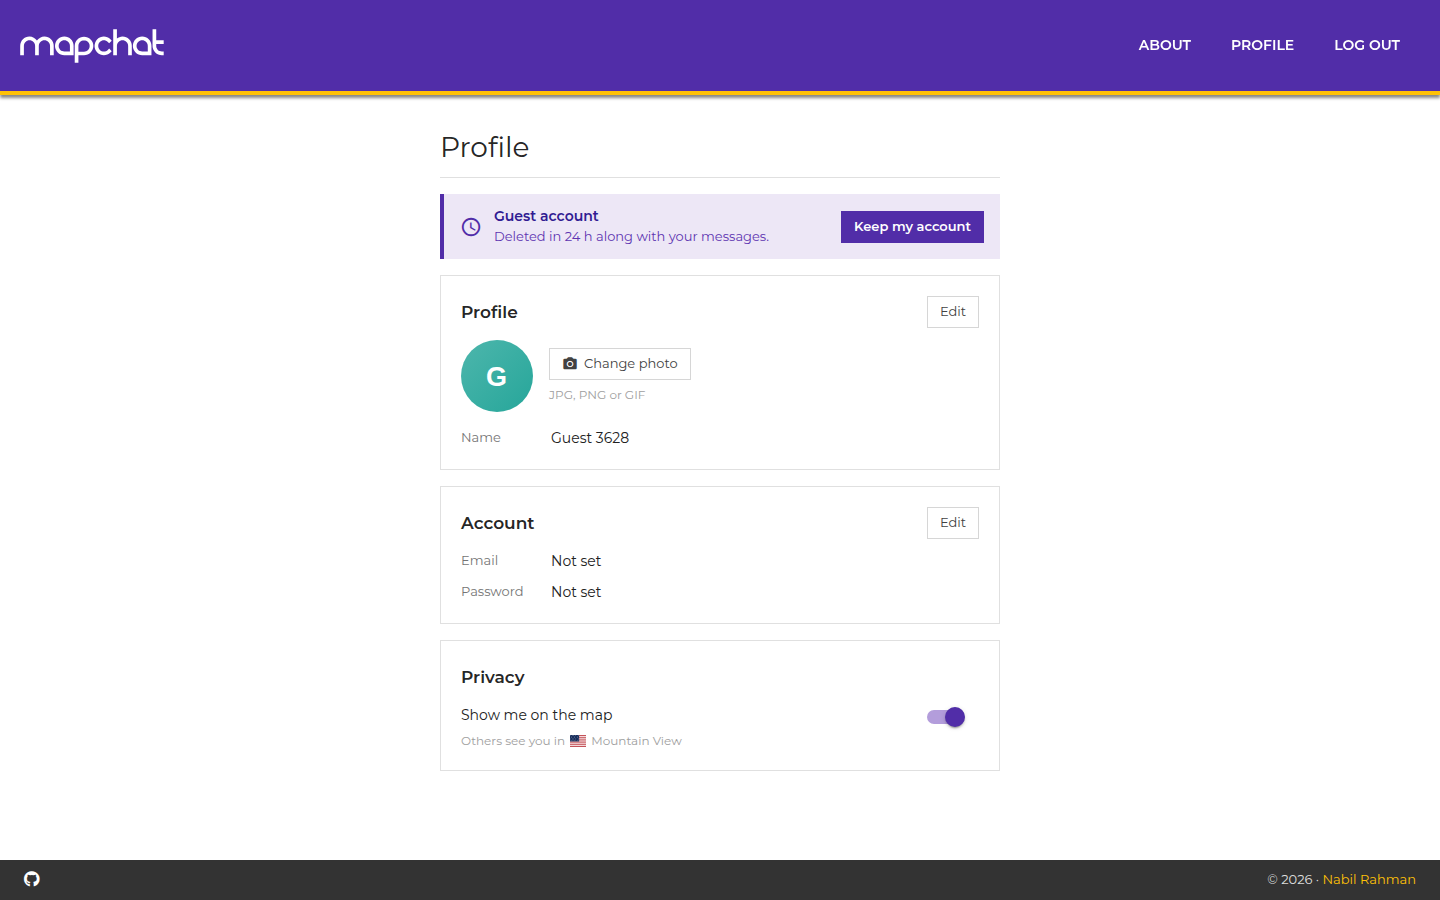
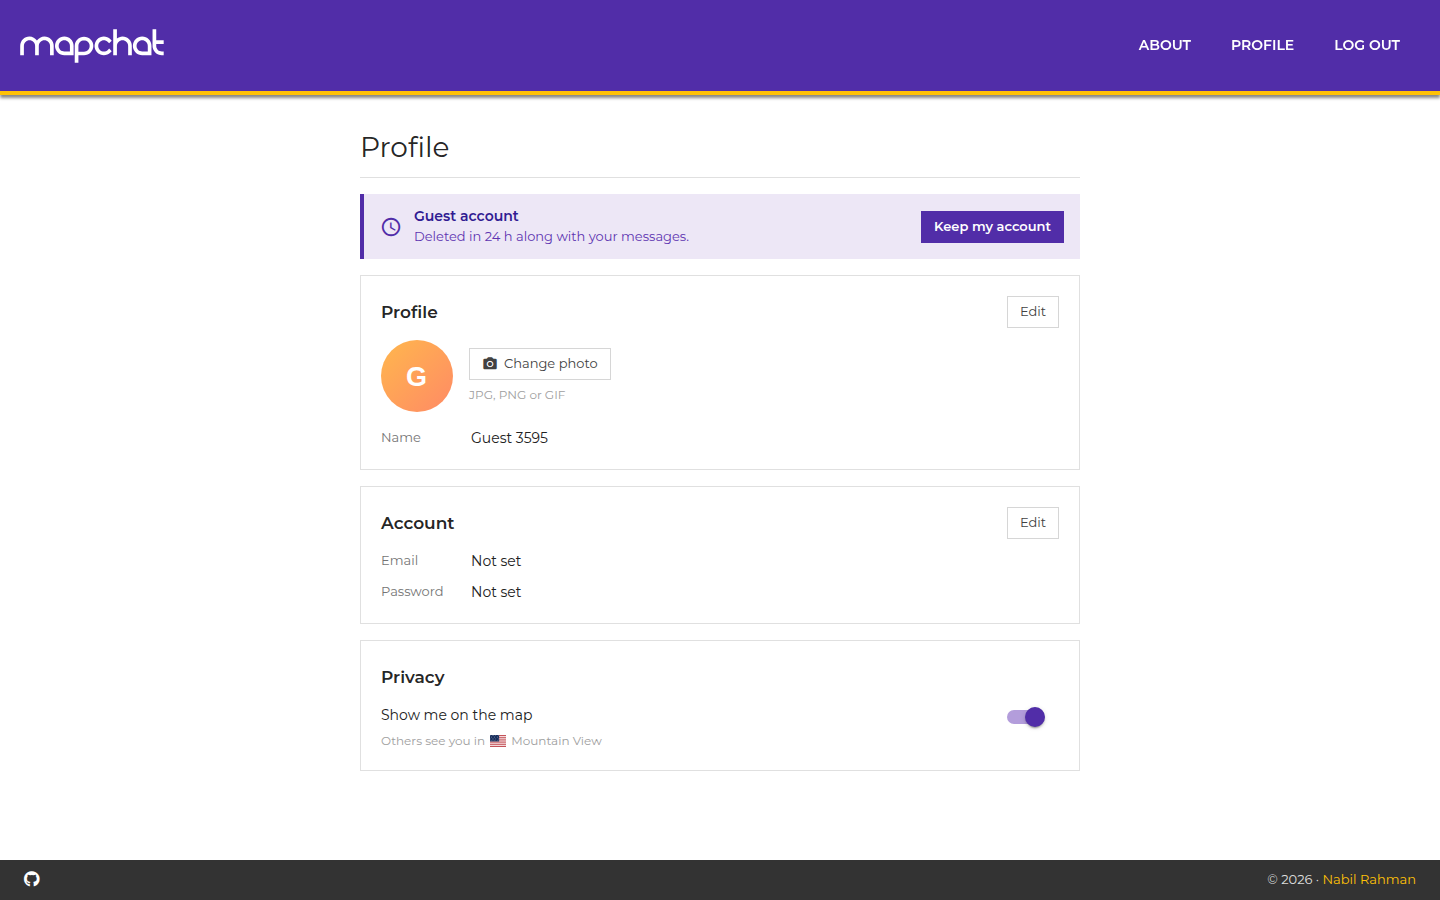
Give About and Profile the same width so their titles line up
Both pages are now 720px wide, so the title sits in the same place on each. About keeps its two cards side by side; Profile's cards are a little wider. The README's profile screenshot is retaken to match.

diff --git a/App/Views/Profile/show.html b/App/Views/Profile/show.html
@@ -3,7 +3,7 @@
 {% block title %}Profile{% endblock %}
 
 {% block head %}
-<link rel="stylesheet" href="/css/profile.css?v=17"/>
+<link rel="stylesheet" href="/css/profile.css?v=18"/>
 <link rel="stylesheet" href="https://cdn.jsdelivr.net/npm/flag-icons@7.2.3/css/flag-icons.min.css">
 {% endblock %}
 

diff --git a/public/css/profile.css b/public/css/profile.css
@@ -1,7 +1,8 @@
 /* One centred column of setting cards */
+/* Same width as About, so the title sits in the same place on both */
 .profile-page
 {
-    max-width: 560px;
+    max-width: 720px;
     margin: 0 auto;
 }
 

diff --git a/public/css/about.css b/public/css/about.css
@@ -8,7 +8,7 @@
     --space-m: clamp(16px, 2.5vw, 24px);
     --space-l: clamp(24px, 4vw, 40px);
 
-    max-width: 960px;
+    max-width: 720px;   /* same as Profile, so the titles line up */
     margin: 0 auto;
 }
 

diff --git a/App/Views/About/index.html b/App/Views/About/index.html
@@ -3,7 +3,7 @@
 {% block title %}About{% endblock %}
 
 {% block head %}
-<link rel="stylesheet" href="/css/about.css?v=5"/>
+<link rel="stylesheet" href="/css/about.css?v=6"/>
 {% endblock %}
 
 {% block body %}
